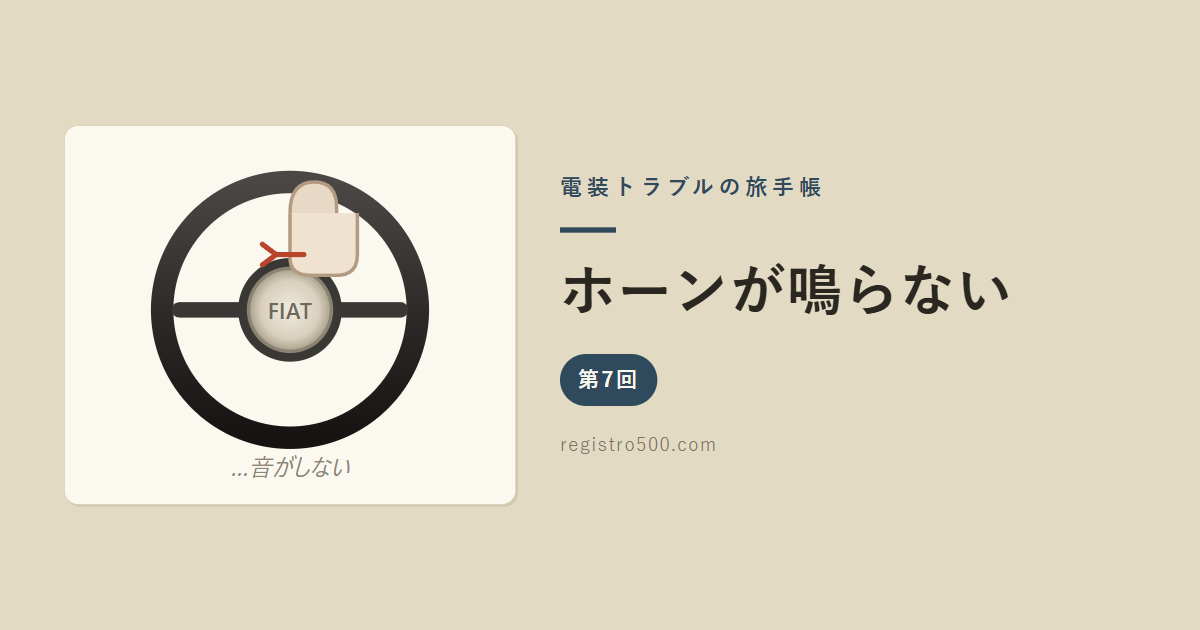
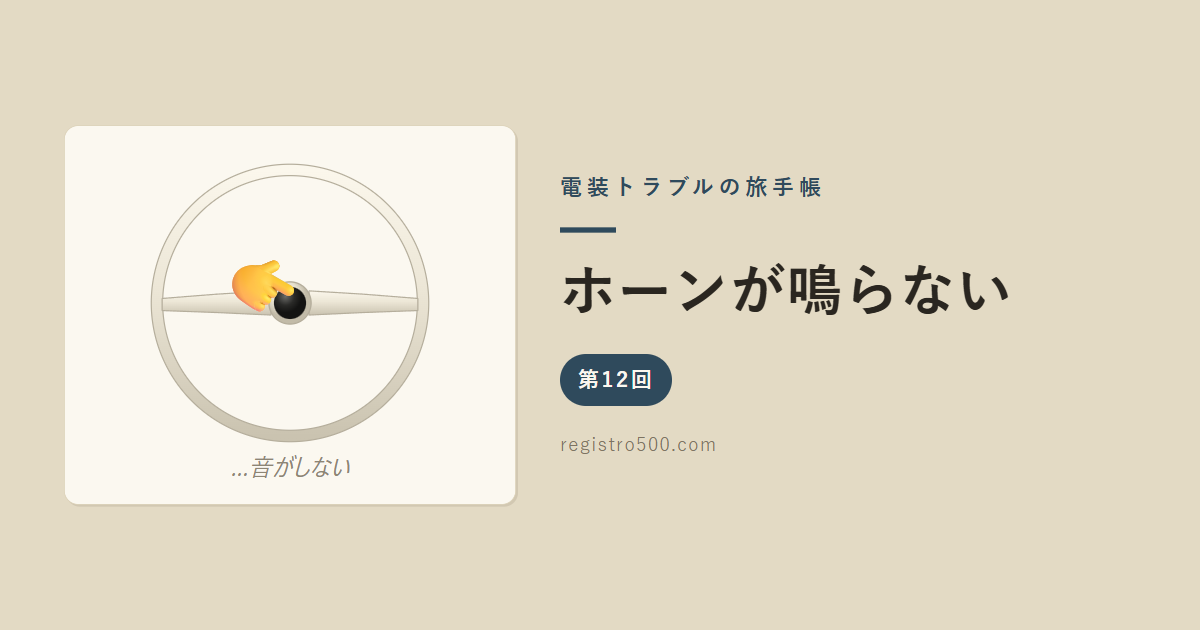
feat(journey): 伏せていた horn・room を第12・13回として連載へ復帰
在庫切れが 2026-11-06 → 11-20 へ2週のびた。

- journey-schedule.json: pending の2本を issues へ（n=12/13・先行11-06/11-13）
- 自称回数を振り直し（title・帯・room→horn の参照2箇所）＋OGカード2枚を焼き直し
- 順序が変わって嘘になる記述を訂正＝horn の「この連載で初めてヒューズが犯人」は
  第7回 brake・第10回 turn・第11回 wiper で F2 が既出のため成立しない。
  「キーと無関係な F1 が犯人になるのは初めて」へ置き換え（見出し・リード・desc）
- 図の中の古い回数を是正＝brake.js の「第7・8回」は幅300pxに収まらず回数ごと撤去、
  room.js の「ホーンへ（第7回）」は第12回へ。図で指してよいのは前の回だけ
- 既存事故の是正: JSのキャッシュバスター ?v= が33件ズレていた（sw.js は
  StaleWhileRevalidate＝古いJSが返り続けうる）→ 57件すべて実ファイルと一致
- article-reviewer の指摘を反映（JSコメントの旧番号11箇所・desc の「室内灯」→
  「ルームランプ」・裏付けの無い複数形を削除）

検算249件/不一致0・廃止語0件・図の差分0項目・bbox 衝突なし。

Claude-Session: https://claude.ai/code/session_01GffJ9i6ApUoT6JgtC4gmPT

Changed region(s): [[0.1233, 0.2413, 0.37, 0.7238], [0.4933, 0.5429, 0.5858, 0.6635]]

diff --git a/wiring-journey-horn.html b/wiring-journey-horn.html
@@ -4,20 +4,20 @@
 <meta charset="utf-8">
 <!-- JOURNEY-STATE:BEGIN ⛔ここから END までは publish_journey.py が書き換える＝手で編集しない -->
 <meta name="robots" content="noindex, nofollow">
-<meta name="description" content="ボタンを押してもホーンが鳴らない。スイッチが帰り道（アース側）に入っている珍しい回路です。空冷フィアット500のホーン回路を1枚の絵でたどり、ヒューズが本当に犯人かを確かめます。">
+<meta name="description" content="ボタンを押してもホーンが鳴らない。スイッチが帰り道（アース側）に入っている珍しい回路です。空冷フィアット500のホーン回路を1枚の絵でたどり、キーと無関係に生きているヒューズが犯人かどうかを確かめます。">
 <link rel="canonical" href="https://www.registro500.com/wiring-journey-horn">
 <meta property="og:type" content="article">
-<meta property="og:title" content="ホーンが鳴らない（第7回）">
-<meta property="og:description" content="ボタンを押してもホーンが鳴らない。スイッチが帰り道（アース側）に入っている珍しい回路です。空冷フィアット500のホーン回路を1枚の絵でたどり、ヒューズが本当に犯人かを確かめます。">
+<meta property="og:title" content="ホーンが鳴らない（第12回）">
+<meta property="og:description" content="ボタンを押してもホーンが鳴らない。スイッチが帰り道（アース側）に入っている珍しい回路です。空冷フィアット500のホーン回路を1枚の絵でたどり、キーと無関係に生きているヒューズが犯人かどうかを確かめます。">
 <meta property="og:url" content="https://www.registro500.com/wiring-journey-horn">
 <meta property="og:image" content="https://www.registro500.com/og/journey-horn.png">
 <meta property="og:site_name" content="Registro500 Giappone">
 <meta name="twitter:card" content="summary_large_image">
-<script>window.JOURNEY={"n": 7, "pub": "2026-10-09", "slug": "horn", "state": "pre"};</script>
+<script>window.JOURNEY={"n": 12, "pub": "2026-11-13", "slug": "horn", "state": "pre"};</script>
 <script src="/wiring-journey-gate.js?v=23963f74"></script>
 <!-- JOURNEY-STATE:END -->
 <meta name="viewport" content="width=device-width, initial-scale=1, viewport-fit=cover">
-<title>ホーンが鳴らない（第7回）｜Registro500</title>
+<title>ホーンが鳴らない（第12回）｜Registro500</title>
 
 <!-- Google tag (gtag.js) -->
 <script async src="https://www.googletagmanager.com/gtag/js?id=G-27SHHC4JYH"></script>
@@ -31,12 +31,12 @@
 <link rel="stylesheet" href="/wiring-journey.css?v=7354212e">
 </head>
 <body>
-<div class="sitebar">電装トラブルの旅手帳<span class="kai">第7回</span></div>
+<div class="sitebar">電装トラブルの旅手帳<span class="kai">第12回</span></div>
 <div class="col">
 
 <header>
   <h1 class="brk"><span>ホーンが鳴らない</span></h1>
-  <p>ボタンを押しても、うんともすんとも言わない。——ホーンの回路は、ここまでたどってきた道と<b>2つの点が逆</b>です。ひとつは<b>ヒューズが本当に犯人になる</b>こと。もうひとつは<b>スイッチが帰り道側に入っている</b>ことです。</p>
+  <p>ボタンを押しても、うんともすんとも言わない。——ホーンの回路は、ここまでたどってきた道と<b>2つの点が逆</b>です。ひとつは<b>キーを回さなくても生きている</b>こと。もうひとつは<b>スイッチが帰り道側に入っている</b>ことです。</p>
 </header>
 <p class="scope">このストーリーは <b>FIAT 500（D・F・L・R型）</b> の話です。配線は500の原典から起こしています。</p>
 
@@ -98,7 +98,7 @@
 <p class="note">線の色は実車の被覆の色そのまま（VIOLA=紫・GIALLO E NERO=黄／黒・NERO=黒）。黄色い点＝いま電気が流れている所。線に付いた<b>丸い札は端子の名前</b>です。<b>濃い色の札は、このあとテスターを当てる2か所</b>＝ホーンの＋と−です。ホーンの中の巻線は<b>明るい細い線</b>で描いてあります——原典の電線ではなく、部品の内部だからです。<b>ヒューズの先の端子だけ「（名前なし）」</b>と書いてあります——原典の配線図に名前が無いからで、実車でここを探しても番号は打たれていません。</p>
 <div class="qa">
   <span class="qa-h">なぜスイッチが「帰り道」側に付いているのか</span>
-  ステアリングは回ります。<b>回るものの中に12Vの線を通すより、アースへ落とす線を通すほうが安全</b>だからです（擦れて車体に触れても、ただ鳴るだけで済む）。同じ理由で、油圧の警告灯（第2回）もセンダ側でアースに落としています。<b>ここまでに出てきた「スイッチが下側にある」部品は、どれも同じ考え方</b>です。
+  ステアリングは回ります。<b>回るものの中に12Vの線を通すより、アースへ落とす線を通すほうが安全</b>だからです（擦れて車体に触れても、ただ鳴るだけで済む）。同じ理由で、油圧の警告灯（第2回）もセンダ側でアースに落としています。
 </div>
 
 <!-- ============ 絞り込み ============ -->
@@ -118,9 +118,9 @@
 
 <!-- ============ 異常①＝山場 ============ -->
 <div class="eyebrow">異常のとき ①</div>
-<h2 class="brk"><span>ヒューズが切れている＝</span><span>ここまでで初めて、</span><span>ヒューズが犯人になる</span></h2>
+<h2 class="brk"><span>ヒューズが切れている＝</span><span>キーと無関係な F1 が、</span><span>ここでは犯人になる</span></h2>
 <div class="scene"><svg id="j-blown" width="320"></svg></div>
-<p class="cap">F1 が切れたところ。ヒューズから<b>下が丸ごと薄く</b>なりました。第1回・第4回・第6回では「ヒューズを見ても直りません」と繰り返してきましたが、<b>それはヒューズの手前から分かれる系統の話</b>でした。ホーンは<b>ヒューズの先</b>にいます。</p>
+<p class="cap">F1 が切れたところ。ヒューズから<b>下が丸ごと薄く</b>なりました。第1回・第4回・第6回では「ヒューズを見ても直りません」と繰り返してきましたが、<b>それはヒューズの手前から分かれる系統の話</b>でした。ホーンは<b>ヒューズの先</b>にいます。しかも切れるのは、第7回・第10回・第11回で犯人になった<b>キーONの F2 ではなく、キーと無関係に生きている F1</b> のほうです。</p>
 <p class="note">⭐<b>F1 の先にいるのは、ホーンとルームランプの2つだけ</b>です（原典のヒューズ対応表）。だから<b>「ホーンが鳴らない＋ルームランプも点かない」なら、ほぼヒューズ1本</b>で説明が付きます。逆に<b>チャージランプもセルも点火も、F1 とは無関係</b>に生きています——この絵ではキーへの線がヒューズの<b>手前</b>から分かれていることで、それが見えます。</p>
 
 <!-- ============ 異常② ============ -->
@@ -177,8 +177,8 @@
 
 </div>
 
-<script src="/wiring-sim.js?v=5dd854f2"></script>
-<script src="/wiring-journey.js?v=de568f2d"></script>
-<script src="/wiring-journey-horn.js?v=1e24a5e4"></script>
+<script src="/wiring-sim.js?v=8dfca22f"></script>
+<script src="/wiring-journey.js?v=b08ab6c3"></script>
+<script src="/wiring-journey-horn.js?v=9f1c3bb3"></script>
 </body>
 </html>

diff --git a/wiring-journey-room.js b/wiring-journey-room.js
@@ -1,8 +1,8 @@
-/* ストーリー第8回「ルームランプが点かない」の絵。図の点灯・色・黄点はすべて wiring-sim.js（L1到達性）の solve() 結果＝絵に合わせて数字を作らない。
+/* ストーリー第13回「ルームランプが点かない」の絵。図の点灯・色・黄点はすべて wiring-sim.js（L1到達性）の solve() 結果＝絵に合わせて数字を作らない。
    このストーリーだけの特徴＝【帰り道が2本ある】。これまでのストーリーはどれも1本の輪だった。
    ルームランプは電球の−から①ミラーの内蔵スイッチ②ドア柱スイッチの2本に分かれ、どちらか一方でもアースに落ちれば点く。
    だから「ドアを開けても点かないが、スイッチを入れれば点く」（またはその逆）という切り分けが、部品を外さずにできる。
-   第7回（ホーン）と同じ F1 の負荷側にいる2つ＝両方が死んだらヒューズ1本で説明が付く。 */
+   第12回（ホーン）と同じ F1 の負荷側にいる2つ＝両方が死んだらヒューズ1本で説明が付く。 */
 (function () {
   'use strict';
   var WC = Journey.WC, C = Journey.C;
@@ -17,13 +17,13 @@
     var sc = k.sc, pos = k.pos, s = k.s;
     var blown = pos.f1 === 'BLOWN', swOn = pos.room_sw === 'ON', doorOpen = pos.door_sw === 'DOOR_OPEN';
 
-    /* 赤地に白抜きの札＝この絵でいちばん見てほしい所に1枚だけ置く（第4・6・7回と同じ道具）。 */
+    /* 赤地に白抜きの札＝この絵でいちばん見てほしい所に1枚だけ置く（第4・6・12回と同じ道具）。 */
     function chip(x, y, t) {
       var w = t.length * 12 + 14, h = 22;
       s.push('<rect x="' + x + '" y="' + (y - h / 2) + '" width="' + w + '" height="' + h + '" rx="5" fill="' + C.hi + '"/>');
       s.push('<text x="' + (x + 7) + '" y="' + (y + 4.5) + '" font-size="12" font-weight="700" fill="#fffdf8">' + t + '</text>');
     }
-    /* 【赤の序列】切断はすき間13・×・ハロー・図幅いっぱいの境界破線・赤札1枚。このストーリーは縦軸が2本ある（幹線 X とドア柱 DX）ので、札の x も引数で受ける＝空いている側がどこかは切る場所ごとに違う（第6回は右・第7回は右・ここは中央寄り）。 */
+    /* 【赤の序列】切断はすき間13・×・ハロー・図幅いっぱいの境界破線・赤札1枚。このストーリーは縦軸が2本ある（幹線 X とドア柱 DX）ので、札の x も引数で受ける＝空いている側がどこかは切る場所ごとに違う（第6回は右・第12回は右・ここは中央寄り）。 */
     function cutV(x, y1, y2, id, opt) {
       opt = opt || {};
       var mid = opt.mid || (y1 + y2) / 2, col = k.wcol(id, C.dim).col;
@@ -38,9 +38,9 @@
       chip(opt.chipX == null ? 150 : opt.chipX, mid, '外れている');
     }
 
-    /* ===== バッテリー〜ヒューズ箱の電源側＝第7回とまったく同じ道 ===== */
+    /* ===== バッテリー〜ヒューズ箱の電源側＝第12回とまったく同じ道 ===== */
     k.battery(X);
-    /* 端子バッジ＝原典に番号のある端子にだけ付ける（第4回の作法／第6・7回で全号展開）。
+    /* 端子バッジ＝原典に番号のある端子にだけ付ける（第4回の作法／第6・12回で全号展開）。
        この絵で付けるのは + / 30（レギュレータ）/ 30（ヒューズ箱の電源側）/ 電球の + ・−の5か所。
        内蔵スイッチ・ドア柱スイッチの接点には付けない＝原典に番号が無い。このストーリーでは +・−を hero にしていない＝絞り込みが【テスターを出す前のスイッチ操作】で進む号だから（測る端子を強調すると、この号のいちばんの主張とぶつかる）。 */
     k.term(X, 74, '+', 'l');
@@ -63,7 +63,7 @@
     k.seg(X, 152, X, FZ, 'w11-04', true);
     k.label(X + 12, 184, 'ROSSO 赤・太', WC.ROSSO, null, 11);
 
-    /* ===== ヒューズ F1＝第7回と同じ本線。ここから先の2本がホーンとルームランプ ===== */
+    /* ===== ヒューズ F1＝第12回と同じ本線。ここから先の2本がホーンとルームランプ ===== */
     k.node(X, FZ);
     k.dashOut(X, FZ, 146);
     k.label(150, FZ - 6, 'キースイッチへ', C.sub, null, 10);
@@ -71,11 +71,12 @@
     k.term(X, FZ - 10, '30', 'l');
     k.fuseV(X, FZ, blown, 'ヒューズ F1');
 
-    /* ヒューズの先で2手に分かれる＝もう1本はホーンへ（第7回のストーリー） */
+    /* ヒューズの先で2手に分かれる＝もう1本はホーンへ（第12回のストーリー）。
+       ⭐図に書いてよい「第N回」は【前の回】だけ＝後の回を指すと予告になり、並べ替えで嘘になる。 */
     k.node(X, FZ + 62);
     k.dashOut(X, FZ + 62, 168);
     k.label(172, FZ + 58, 'ホーンへ', C.sub, null, 10);
-    k.label(172, FZ + 71, '（第7回）', C.sub, null, 10);
+    k.label(172, FZ + 71, '（第12回）', C.sub, null, 10);
 
     /* ===== F1の負荷側→電球の＋（VIOLA） ===== */
     if (mode.cut === 'w08-01') cutV(X, FZ + 62, LB.y, 'w08-01');
@@ -109,7 +110,7 @@
     s.push('<text x="100" y="' + (SY + 8) + '" font-size="10" fill="' + C.in_ + '">内蔵スイッチ</text>');
     s.push('<text x="100" y="' + (SY + 24) + '" font-size="11" font-weight="700" fill="' + (swOn ? '#7fd6a0' : C.in_) + '">' + (swOn ? '入' : '切') + '</text>');
     if (sc.lampOn) k.dots(X, LB.y + 8, LB.y + 30, false);
-    /* 状態の語は箱の外・右（第7回と同じ作法＝箱の中に置くと光のにじみに埋もれる）。 */
+    /* 状態の語は箱の外・右（第12回と同じ作法＝箱の中に置くと光のにじみに埋もれる）。 */
     s.push('<text x="198" y="' + (LB.y + 24) + '" font-size="12" font-weight="700" fill="' + (sc.lampOn ? '#2f7d4f' : C.hi) + '">' + (sc.lampOn ? '点いている' : '点かない') + '</text>');
 
     /* ===== 帰り道①＝内蔵スイッチ→車体アース ===== */
@@ -168,7 +169,7 @@
     { label: 'ドアを開けた・スイッチ切', s: { inputs: OPEN }, expect: true, words: LW },
     { label: 'ドアを閉じている・スイッチ入', s: { inputs: SWON }, expect: true, words: LW },
     { label: 'キーON・ドアを開けた（キーは無関係）', s: { inputs: { key: 'ON', engine: 'STOP', door: 'OPEN' } }, expect: true, words: LW },
-    /* 第7回と対＝同じ F1 の先にいる2つ */
+    /* 第12回と対＝同じ F1 の先にいる2つ */
     { label: 'ヒューズF1が切れている・ドアを開けた', s: { inputs: { door: 'OPEN', f1: 'BLOWN' } }, expect: false, words: LW },
     { label: '↑同じ場面でホーンを押す（道連れ）', s: { inputs: { door: 'OPEN', horn_btn: 'PRESSED', f1: 'BLOWN' } }, expect: false, read: horn, words: HW },
     { label: '↑同じ場面のチャージランプ（キーON・無実）', s: { inputs: { key: 'ON', engine: 'STOP', f1: 'BLOWN' } }, expect: true, read: chg, words: CW },
@@ -198,7 +199,7 @@
     checks: CHECKS,
     scenes: function (scenario) {
       return [
-        /* ★①ヒューズが切れた＝ホーンと道連れ（第7回と対） */
+        /* ★①ヒューズが切れた＝ホーンと道連れ（第12回と対） */
         { id: 'j-blown', sc: scenario({ inputs: { door: 'OPEN', f1: 'BLOWN' } }), mode: {} },
         /* ★②帰り道②だけが切れた＝ドアでは点かないのに、内蔵スイッチなら点く */
         { id: 'j-doorgnd', sc: scenario({ inputs: OPEN, ops: cut('w08-05') }), mode: { cut: 'w08-05' } },

diff --git a/wiring-journey-room.html b/wiring-journey-room.html
@@ -4,20 +4,20 @@
 <meta charset="utf-8">
 <!-- JOURNEY-STATE:BEGIN ⛔ここから END までは publish_journey.py が書き換える＝手で編集しない -->
 <meta name="robots" content="noindex, nofollow">
-<meta name="description" content="ドアを開けてもルームランプが点かない。帰り道が2本ある珍しい回路なので、部品を外さずに切れている場所が割れます。空冷フィアット500の室内灯回路を1枚の絵でたどります。">
+<meta name="description" content="ドアを開けてもルームランプが点かない。帰り道が2本ある珍しい回路なので、部品を外さずに切れている場所が割れます。空冷フィアット500のルームランプの回路を1枚の絵でたどります。">
 <link rel="canonical" href="https://www.registro500.com/wiring-journey-room">
 <meta property="og:type" content="article">
-<meta property="og:title" content="ルームランプが点かない（第8回）">
-<meta property="og:description" content="ドアを開けてもルームランプが点かない。帰り道が2本ある珍しい回路なので、部品を外さずに切れている場所が割れます。空冷フィアット500の室内灯回路を1枚の絵でたどります。">
+<meta property="og:title" content="ルームランプが点かない（第13回）">
+<meta property="og:description" content="ドアを開けてもルームランプが点かない。帰り道が2本ある珍しい回路なので、部品を外さずに切れている場所が割れます。空冷フィアット500のルームランプの回路を1枚の絵でたどります。">
 <meta property="og:url" content="https://www.registro500.com/wiring-journey-room">
 <meta property="og:image" content="https://www.registro500.com/og/journey-room.png">
 <meta property="og:site_name" content="Registro500 Giappone">
 <meta name="twitter:card" content="summary_large_image">
-<script>window.JOURNEY={"n": 8, "pub": "2026-10-16", "slug": "room", "state": "pre"};</script>
+<script>window.JOURNEY={"n": 13, "pub": "2026-11-20", "slug": "room", "state": "pre"};</script>
 <script src="/wiring-journey-gate.js?v=23963f74"></script>
 <!-- JOURNEY-STATE:END -->
 <meta name="viewport" content="width=device-width, initial-scale=1, viewport-fit=cover">
-<title>ルームランプが点かない（第8回）｜Registro500</title>
+<title>ルームランプが点かない（第13回）｜Registro500</title>
 
 <!-- Google tag (gtag.js) -->
 <script async src="https://www.googletagmanager.com/gtag/js?id=G-27SHHC4JYH"></script>
@@ -31,7 +31,7 @@
 <link rel="stylesheet" href="/wiring-journey.css?v=7354212e">
 </head>
 <body>
-<div class="sitebar">電装トラブルの旅手帳<span class="kai">第8回</span></div>
+<div class="sitebar">電装トラブルの旅手帳<span class="kai">第13回</span></div>
 <div class="col">
 
 <header>
@@ -80,7 +80,7 @@
 <p class="cap" id="mainCap"></p>
 </div>
 <ol class="causes">
-  <li>電気は第7回（ホーン）とまったく同じ道で<b>ヒューズ F1</b> まで来ます。F1 を出た所で<b>2本に分かれ</b>、片方はホーンへ、もう片方が<b>紫の線</b>でミラーの電球へ向かいます。</li>
+  <li>電気は第12回（ホーン）とまったく同じ道で<b>ヒューズ F1</b> まで来ます。F1 を出た所で<b>2本に分かれ</b>、片方はホーンへ、もう片方が<b>紫の線</b>でミラーの電球へ向かいます。</li>
   <li>電球のプラス（＋）端子には、キーと無関係に<b>いつも12V</b>が来ています。点かないのは、電気が来ていないからではなく<b>帰り道が閉じていない</b>からです。</li>
   <li>電球のマイナス端子から出た線は<b>2手に分かれます</b>。①ミラーの<b>内蔵スイッチ</b>（そのままアースへ） ②<b>ドア柱スイッチ</b>（黒い線でピラーまで行き、そこでアースへ）。</li>
   <li><b>どちらか一方でもアースに落ちれば、電球は点きます。</b>だから内蔵スイッチが「切」でも、ドアを開ければ点くのです。</li>
@@ -102,7 +102,7 @@
   <tr><td rowspan="2">② ドアを閉め、<b>内蔵スイッチを「入」</b>にする</td><td class="ok">点く</td><td>電球・ヒューズ・紫の線は正常。<b>ドア側の帰り道</b>が切れています＝黒い線・ドア柱スイッチ・そのアース（<b>ピラーの錆</b>が定番）</td></tr>
   <tr><td class="ng">点かない</td><td><b>両方の帰り道が同時に切れる</b>ことは、まずありません。疑うのは<b>その手前</b>＝電球切れ・紫の線・ヒューズ F1 → ④へ</td></tr>
   <tr><td>③ 内蔵スイッチを「入」にしても点かない</td><td class="ng">—</td><td>内蔵スイッチの接点か、そのアース（ミラーの取り付け金具）</td></tr>
-  <tr><td>④ <b>ホーンを鳴らしてみる</b></td><td class="ng">鳴らない</td><td>⭐<b>ヒューズ F1 です。</b>この2つは同じヒューズの先にいる、たった2つの負荷です（→ <a href="/wiring-journey-horn.html">第7回</a>）</td></tr>
+  <tr><td>④ <b>ホーンを鳴らしてみる</b></td><td class="ng">鳴らない</td><td>⭐<b>ヒューズ F1 です。</b>この2つは同じヒューズの先にいる、たった2つの負荷です（→ <a href="/wiring-journey-horn.html">第12回</a>）</td></tr>
   <tr><td></td><td class="ok">鳴る</td><td>ヒューズは無実。<b>電球切れか、紫の線1本</b>。まず電球を外して見てください</td></tr>
 </table>
 <p class="note"><b>テスターを使うなら</b>、電球のプラス端子とマイナス端子を測ります。<b>両方で12Vが出る</b>なら電気は来ていて帰り道が無い状態、<b>両方0V</b>ならヒューズか紫の線、<b>プラス側だけ12Vでマイナス側が0V</b>なら電球が切れています（電圧が巻線を通り抜けてこないため）。</p>
@@ -166,8 +166,8 @@
 
 </div>
 
-<script src="/wiring-sim.js?v=5dd854f2"></script>
-<script src="/wiring-journey.js?v=de568f2d"></script>
-<script src="/wiring-journey-room.js?v=3b339688"></script>
+<script src="/wiring-sim.js?v=8dfca22f"></script>
+<script src="/wiring-journey.js?v=b08ab6c3"></script>
+<script src="/wiring-journey-room.js?v=f6c47644"></script>
 </body>
 </html>

diff --git a/wiring-journey-brake.js b/wiring-journey-brake.js
@@ -1,6 +1,6 @@
 /* ストーリー第7回「ブレーキランプが点かない」の絵。図の点灯・色・黄点はすべて wiring-sim.js（L1到達性）の solve() 結果＝絵に合わせて数字を作らない。
    このストーリーだけの特徴が3つある。①【キーONのときだけ生きるヒューズ F2】がシリーズで初めて本線に立つ。
-   F1（常時30系）のストーリー＝第7・8回と対になる形で、「キーを回さないと点かない」が絵に出る。
+   F1（常時30系）のストーリー＝ホーン・ルームランプの回と対になる形で、「キーを回さないと点かない」が絵に出る。
    ②【ランプが2つあって、片方からもう片方へ渡る】＝原典の実配線が「SW→左マージンを降りて左後灯→車体の底を横断→右後灯」。
    左のランプのソケットのところで分かれるので、「右だけ点かない」と「左右とも点かない」で容疑者の範囲がはっきり分かれる。
    ③【症状が2つある】＝点かない／点きっぱなし。後者はスイッチの固着で、絵の上でも作れる。 */
@@ -23,7 +23,7 @@
     var onL = sc.lampOn, onR = sc.rOn;
 
     /* 断線の印。絵の下半分（ランプのまわり）は文字の置き場が無い＝○印だけを打ち、「どこが外れているか」は絵の下の注記行が言う。
-       第7・8回と同じ病気（箱の近くには文字の逃げ場が無い）。 */
+       ホーン・ルームランプの回と同じ病気（箱の近くには文字の逃げ場が無い）。 */
     /* 赤地に白抜きの札（第4回の道具）。1つの絵に1枚まで。 */
     function chip(x, y, t) {
       var w = t.length * 12 + 14, h = 22;
@@ -103,11 +103,12 @@
 
     k.seg(X, 140, X, 186, 'w11-04', true);
     k.label(X + 12, 172, 'ROSSO 赤・太', WC.ROSSO, null, 11);
-    /* ヒューズ F1 は【このストーリーの本線ではない】＝常時30系の枝。第7・8回のストーリーがこの先にある。 */
+    /* ヒューズ F1 は【このストーリーの本線ではない】＝常時30系の枝。ホーン・ルームランプの回がこの先にある。
+       ⛔図に回数を書かない＝連載の並びを組み替えるたびに嘘になる（2026-09-03 に、書いてあった回数が実際に古くなった）。 */
     k.node(X, 186);
     k.dashOut(X, 186, 168);
     k.label(172, 179, 'ヒューズ F1 →ホーン・', C.sub, null, 10);
-    k.label(172, 192, 'ルームランプ（第7・8回）', C.sub, null, 10);
+    k.label(172, 192, 'ルームランプへ', C.sub, null, 10);
 
     k.seg(X, 186, X, KT, 'w10-01', true);
     k.label(X + 12, 218, 'ROSSO 赤・太', WC.ROSSO, null, 11);
@@ -141,7 +142,7 @@
     if (pressed) s.push('<path d="M' + X + ',' + SY + ' L' + X + ',' + (SY + 26) + '" stroke="' + C.in_ + '" stroke-width="3.5"/>');
     else s.push('<path d="M' + X + ',' + SY + ' L' + (X + 13) + ',' + (SY + 20) + '" stroke="' + C.in_ + '" stroke-width="3.5"/>');
     s.push('<text x="100" y="' + (SB.y + 68) + '" font-size="11" font-weight="700" fill="' + (pressed ? '#7fd6a0' : C.in_) + '">接点 ' + (pressed ? '閉' : '開') + '</text>');
-    /* 状態の語は箱の外・右（第7・8回と同じ作法＝箱の中に置くと内部の線と重なる）。「固着」の場面では【ペダルを離しているのに閉じている】＝そう書かないと絵が嘘になる。 */
+    /* 状態の語は箱の外・右（ホーン・ルームランプの回と同じ作法＝箱の中に置くと内部の線と重なる）。「固着」の場面では【ペダルを離しているのに閉じている】＝そう書かないと絵が嘘になる。 */
     s.push('<text x="198" y="' + (SB.y + 30) + '" font-size="12" font-weight="700" fill="' + (pressed ? C.deep : C.sub) + '">'
       + (mode.stuck ? 'ペダルは' : 'ブレーキを') + '</text>');
     s.push('<text x="198" y="' + (SB.y + 46) + '" font-size="12" font-weight="700" fill="' + (pressed ? C.deep : C.sub) + '">'

diff --git a/wiring-journey-horn.js b/wiring-journey-horn.js
@@ -1,7 +1,9 @@
-/* ストーリー第7回「ホーンが鳴らない」の絵。図の点灯・色・黄点はすべて wiring-sim.js（L1到達性）の solve() 結果＝絵に合わせて数字を作らない。
+/* ストーリー第12回「ホーンが鳴らない」の絵。図の点灯・色・黄点はすべて wiring-sim.js（L1到達性）の solve() 結果＝絵に合わせて数字を作らない。
    このストーリーだけの特徴＝【2つとも、これまでのストーリーとは逆】。①ヒューズが本線に入る。
    第1・4・6回はどれも「ヒューズは無実」だった（キー・コイルへの線はヒューズの電源側から分かれる）。
-   ホーンは F1 の【負荷側】に着く初めての系統＝ヒューズを疑うのが正しい数少ない症状。
+   ホーンは F1 の【負荷側】に着く＝ヒューズを疑うのが正しい数少ない症状。
+   ⛔「ヒューズが犯人になる初めての回」ではない（F2 が犯人になる場面は第7回 brake・第10回 turn・第11回 wiper で既出）。
+   初めてなのは【キーと無関係に生きている F1 が犯人になる】ほう＝2026-09-03 に第7回→第12回へ動かしたとき本文ごと直した。
    ②スイッチがアース側に入る。ホーンには常に12Vが来ていて、ボタンは【帰り道】をつなぐ。
    だからキーを抜いても鳴る。ホーン本体の「通電しても鳴らない・かすれる」（調整ねじ・内部接点の荒れ）は値の話＝この絵の外。 */
 (function () {
@@ -151,7 +153,7 @@
     { label: 'キーOFF・ボタンを押す', s: { inputs: PRESS }, expect: true, words: HW },
     { label: 'キーOFF・ボタンを離す', s: { inputs: { key: 'OFF', horn_btn: 'OFF' } }, expect: false, words: HW },
     { label: 'キーON・ボタンを押す', s: { inputs: PRESS_ON }, expect: true, words: HW },
-    /* このストーリーの山場＝ヒューズが本当に犯人になる初めての系統 */
+    /* このストーリーの山場＝キーと無関係な F1 が犯人になる（⛔「ヒューズが犯人になる初めての回」ではない） */
     { label: 'ヒューズF1が切れている・押す', s: { inputs: { key: 'OFF', horn_btn: 'PRESSED', f1: 'BLOWN' } }, expect: false, words: HW },
     { label: '↑同じ場面のチャージランプ（キーON・無実）', s: { inputs: { key: 'ON', engine: 'STOP', f1: 'BLOWN' } }, expect: true, read: chg, words: LW },
     { label: '↑同じ場面の点火の一次（キーON・無実）', s: { inputs: { key: 'ON', engine: 'STOP', f1: 'BLOWN' } }, expect: true, read: coil, words: PW },
@@ -178,7 +180,7 @@
     checks: CHECKS,
     scenes: function (scenario) {
       return [
-        /* ★①ヒューズが切れた＝この絵の山場。同時にルームランプも点かなくなる（第8回と対） */
+        /* ★①ヒューズが切れた＝この絵の山場。同時にルームランプも点かなくなる（第13回と対） */
         { id: 'j-blown', sc: scenario({ inputs: { key: 'OFF', horn_btn: 'PRESSED', f1: 'BLOWN' } }), mode: {} },
         /* ②ボタンのアースが外れた＝両端に12Vが出るのに鳴らない（第6回の異常②と同じ形） */
         { id: 'j-noearth', sc: scenario({ inputs: PRESS, ops: cut('w05-03') }), mode: { cut: 'w05-03' } },

diff --git a/wiring-journey-headlight.html b/wiring-journey-headlight.html
@@ -261,8 +261,8 @@
 
 </div>
 
-<script src="/wiring-sim.js?v=5dd854f2"></script>
-<script src="/wiring-journey.js?v=de568f2d"></script>
-<script src="/wiring-journey-headlight.js?v=a550683a"></script>
+<script src="/wiring-sim.js?v=8dfca22f"></script>
+<script src="/wiring-journey.js?v=b08ab6c3"></script>
+<script src="/wiring-journey-headlight.js?v=ededb7c7"></script>
 </body>
 </html>

diff --git a/wiring-journey-brake.html b/wiring-journey-brake.html
@@ -207,8 +207,8 @@
 
 </div>
 
-<script src="/wiring-sim.js?v=5dd854f2"></script>
-<script src="/wiring-journey.js?v=de568f2d"></script>
-<script src="/wiring-journey-brake.js?v=75d4c7e7"></script>
+<script src="/wiring-sim.js?v=8dfca22f"></script>
+<script src="/wiring-journey.js?v=b08ab6c3"></script>
+<script src="/wiring-journey-brake.js?v=3ae7a438"></script>
 </body>
 </html>

diff --git a/wiring-journey-tail.html b/wiring-journey-tail.html
@@ -171,8 +171,8 @@
 
 </div>
 
-<script src="/wiring-sim.js?v=5dd854f2"></script>
-<script src="/wiring-journey.js?v=de568f2d"></script>
-<script src="/wiring-journey-tail.js?v=94494af9"></script>
+<script src="/wiring-sim.js?v=8dfca22f"></script>
+<script src="/wiring-journey.js?v=b08ab6c3"></script>
+<script src="/wiring-journey-tail.js?v=fad20685"></script>
 </body>
 </html>

diff --git a/wiring-journey-ignition.html b/wiring-journey-ignition.html
@@ -196,8 +196,8 @@
 
 </div>
 
-<script src="/wiring-sim.js?v=5dd854f2"></script>
-<script src="/wiring-journey.js?v=de568f2d"></script>
+<script src="/wiring-sim.js?v=8dfca22f"></script>
+<script src="/wiring-journey.js?v=b08ab6c3"></script>
 <script src="/wiring-journey-ignition.js?v=d27ef10d"></script>
 </body>
 </html>

diff --git a/wiring-journey-starter.html b/wiring-journey-starter.html
@@ -199,8 +199,8 @@
 
 </div>
 
-<script src="/wiring-sim.js?v=5dd854f2"></script>
-<script src="/wiring-journey.js?v=de568f2d"></script>
+<script src="/wiring-sim.js?v=8dfca22f"></script>
+<script src="/wiring-journey.js?v=b08ab6c3"></script>
 <script src="/wiring-journey-starter.js?v=04f09fbf"></script>
 </body>
 </html>

diff --git a/wiring-journey-charge-alt.html b/wiring-journey-charge-alt.html
@@ -177,8 +177,8 @@
 
 </div>
 
-<script src="/wiring-sim.js?v=5dd854f2"></script>
-<script src="/wiring-journey.js?v=de568f2d"></script>
+<script src="/wiring-sim.js?v=8dfca22f"></script>
+<script src="/wiring-journey.js?v=b08ab6c3"></script>
 <script src="/wiring-journey-charge.js?v=f22c4253"></script>
 </body>
 </html>

diff --git a/wiring-journey-charge.html b/wiring-journey-charge.html
@@ -178,8 +178,8 @@
 
 </div>
 
-<script src="/wiring-sim.js?v=5dd854f2"></script>
-<script src="/wiring-journey.js?v=de568f2d"></script>
+<script src="/wiring-sim.js?v=8dfca22f"></script>
+<script src="/wiring-journey.js?v=b08ab6c3"></script>
 <script src="/wiring-journey-charge.js?v=f22c4253"></script>
 </body>
 </html>
